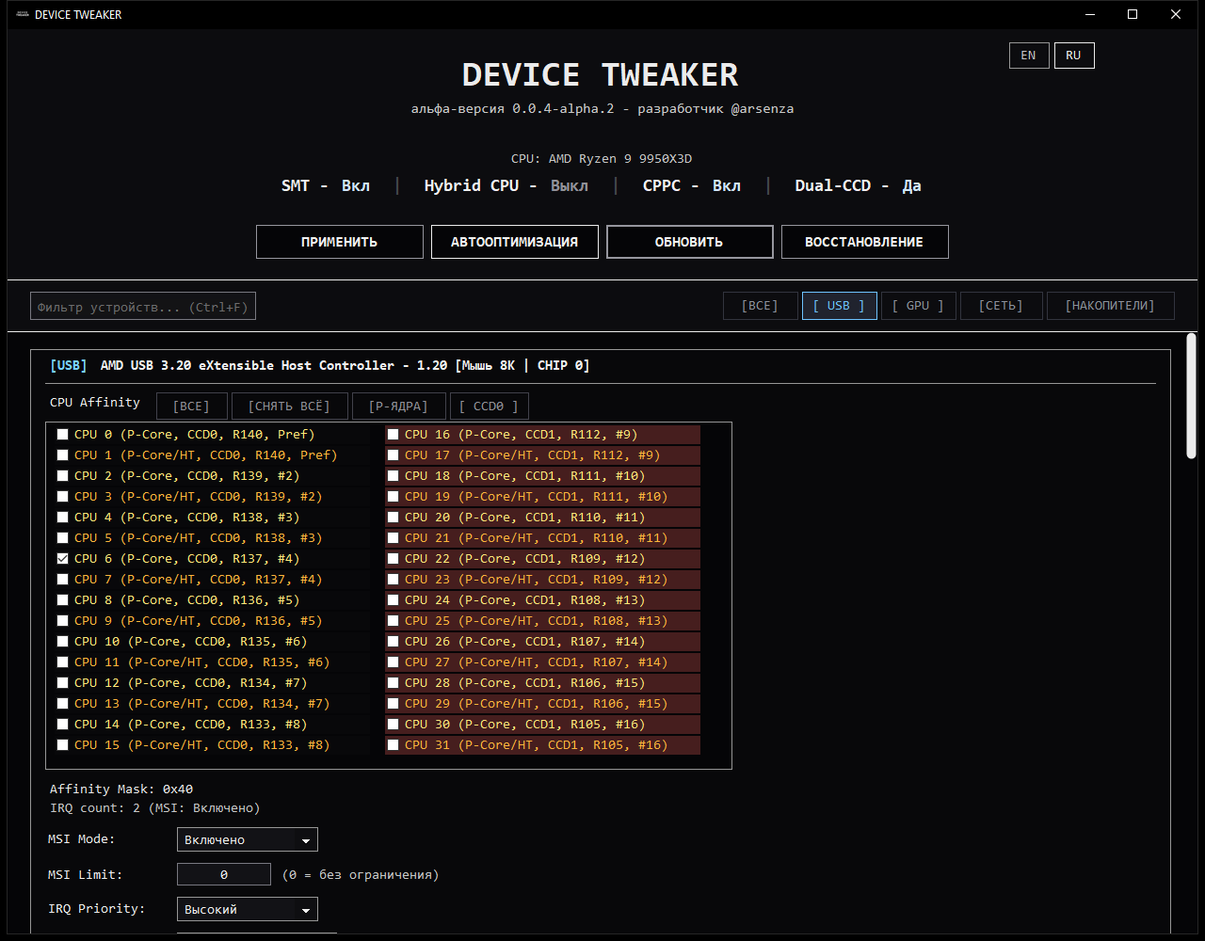
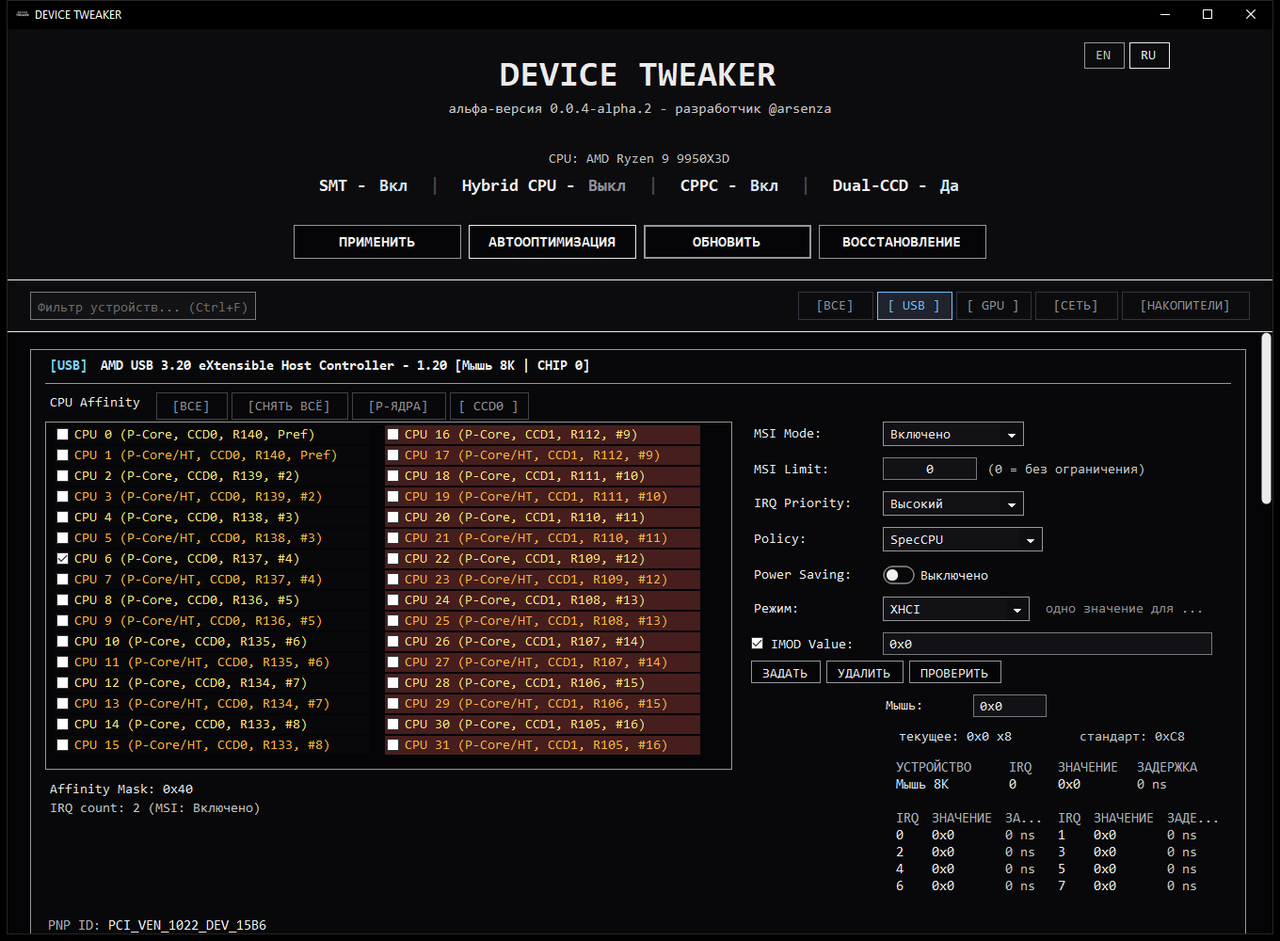
docs: add USB IMOD and NIC ITR examples and fix screenshot clipping

diff --git a/DEVICE TWEAKER/GUI/MainForm.Showcase.cs b/DEVICE TWEAKER/GUI/MainForm.Showcase.cs
@@ -33,6 +33,10 @@ public sealed partial class MainForm
         {
             SetupImodShowcase(isRu);
         }
+        else if (showcase.StartsWith("NicItr", StringComparison.OrdinalIgnoreCase))
+        {
+            SetupNicItrShowcase(isRu);
+        }
         else
         {
             return false;
@@ -46,6 +50,10 @@ public sealed partial class MainForm
         else if (showcase.StartsWith("Imod", StringComparison.OrdinalIgnoreCase))
         {
             SetCategoryFilter("USB");
+        }
+        else if (showcase.StartsWith("NicItr", StringComparison.OrdinalIgnoreCase))
+        {
+            SetCategoryFilter("NETWORK");
         }
 
         UpdateAllBlocksInitialState();
@@ -594,6 +602,94 @@ public sealed partial class MainForm
 
             RecalcAffinityMask(usbBlock);
             OnBlockSettingChanged(usbBlock);
+        }
+
+        UpdateAllBlocksInitialState();
+        UpdateApplyButtonDirtyCount();
+        UpdateCpuHeaderUi();
+    }
+
+    private void SetupNicItrShowcase(bool isRu)
+    {
+        TestCpuConfig config = new()
+        {
+            LogicalCount = 32,
+            SmtEnabled = true,
+            UseHyperThreadingLabel = false,
+            CpuName = "AMD Ryzen 9 9950X3D",
+            CcdMap = new Dictionary<int, int>(),
+            CcxMap = new Dictionary<int, int>()
+        };
+
+        for (int lp = 0; lp < 32; lp++)
+        {
+            config.CoreMap[lp] = lp / 2;
+            int ccd = lp < 16 ? 0 : 1;
+            config.CcdMap[lp] = ccd;
+            config.CcxMap[lp] = ccd;
+            config.CppcRatings[lp] = lp < 16 ? 140 - (lp / 2) : 112 - ((lp - 16) / 2);
+        }
+
+        ApplyTestCpuConfig(config);
+
+        _testDevices.Clear();
+
+        // Device 1: Intel Ethernet Controller I226-V
+        _testDevices.Add(CreateTestDevice(
+            DeviceKind.NET_NDIS,
+            "Intel Ethernet Controller I226-V",
+            @"PCI\VEN_8086&DEV_125C&SUBSYS_14620000\4&2BA2BF07&0&0018",
+            usbRoles: "", audioEndpoints: "", storageTag: "", wifi: false,
+            usbIsXhci: false, usbHasDevices: false, integratedGpu: false,
+            testIrqCount: 4, testMsiStatus: "Enabled", nicPowerSaving: "off"));
+
+        // Device 2: Realtek RTL8125 2.5GbE Gaming Controller
+        _testDevices.Add(CreateTestDevice(
+            DeviceKind.NET_NDIS,
+            "Realtek RTL8125 2.5GbE Gaming Ethernet Family Controller",
+            @"PCI\VEN_10EC&DEV_8125&SUBSYS_14620000\4&2BA2BF07&0&0022",
+            usbRoles: "", audioEndpoints: "", storageTag: "", wifi: false,
+            usbIsXhci: false, usbHasDevices: false, integratedGpu: false,
+            testIrqCount: 4, testMsiStatus: "Enabled", nicPowerSaving: "off"));
+
+        RefreshBlocks();
+
+        foreach (DeviceBlock netBlock in _blocks.Where(b => b.Kind == DeviceKind.NET_NDIS))
+        {
+            bool isIntel = netBlock.Device.InstanceId.Contains("8086", StringComparison.OrdinalIgnoreCase);
+            int targetLp = isIntel ? 12 : 14;
+
+            netBlock.SuppressCpuEvents++;
+            try
+            {
+                for (int i = 0; i < netBlock.CpuBoxes.Count; i++)
+                {
+                    netBlock.CpuBoxes[i].Checked = i == targetLp;
+                }
+            }
+            finally { netBlock.SuppressCpuEvents--; }
+
+            netBlock.MsiCombo.SelectedItem = "Enabled";
+            netBlock.LimitBox.Text = "0";
+            netBlock.PrioCombo.SelectedItem = "High";
+            netBlock.PolicyCombo.SelectedItem = "SpecCPU";
+            if (netBlock.RssQueueBox is not null)
+            {
+                netBlock.RssQueueBox.Value = 4;
+            }
+
+            if (isIntel)
+            {
+                EnsureTestDeviceState(netBlock.Device).NicItrValue = "0, 0, 0, 0";
+            }
+            else
+            {
+                EnsureTestDeviceState(netBlock.Device).NicItrValue = "0x0";
+            }
+
+            RefreshNicItrBlock(netBlock);
+            RecalcAffinityMask(netBlock);
+            OnBlockSettingChanged(netBlock);
         }
 
         UpdateAllBlocksInitialState();

diff --git a/DEVICE TWEAKER/GUI/MainForm.Blocks.cs b/DEVICE TWEAKER/GUI/MainForm.Blocks.cs
@@ -319,11 +319,11 @@ public sealed partial class MainForm
         int cpuPanelTop = cpuLabel.Bottom + UiScale(6);
         int cpuPanelHeight = UiScale(150);
         bool hasImod = ShouldShowImod(device);
-        int desiredSettingsSideWidth = hasImod ? UiScale(560) : UiScale(360);
+        int desiredSettingsSideWidth = hasImod ? UiScale(420) : UiScale(360);
         int settingsMinimumWidth = Math.Min(UiScale(360), Math.Max(UiScale(280), grp.Width - UiScale(48)));
         int settingsSideMinimumWidth = desiredSettingsSideWidth;
         int cpuPanelMinimumWidth = UiScale(320);
-        int settingsSideGap = UiScale(40);
+        int settingsSideGap = UiScale(20);
         int cpuPanelFullMaximumWidth = Math.Max(
             cpuPanelMinimumWidth,
             grp.Width - UiScale(16) - UiScale(24));
@@ -1853,7 +1853,7 @@ public sealed partial class MainForm
             settingsContentBottom = Math.Max(settingsContentBottom, child.Bottom);
         }
 
-        desiredSettingsSideWidth = showImod ? UiScale(540) : UiScale(360);
+        desiredSettingsSideWidth = showImod ? UiScale(420) : UiScale(360);
         UpdateResponsivePlacement();
 
         int settingsMinWidth = Math.Min(UiScale(360), availableSettingsWidth);
@@ -1960,7 +1960,7 @@ public sealed partial class MainForm
                 return bottom;
             }
 
-            desiredSettingsSideWidth = showImod ? UiScale(540) : UiScale(360);
+            desiredSettingsSideWidth = showImod ? UiScale(420) : UiScale(360);
             UpdateResponsivePlacement();
             LayoutNicItrRow();
             LayoutImodRow();

diff --git a/DEVICE TWEAKER/GUI/MainForm.Localization.cs b/DEVICE TWEAKER/GUI/MainForm.Localization.cs
@@ -139,7 +139,19 @@ public sealed partial class MainForm
 
     private void InitializeLocalization()
     {
-        UiLanguage.Initialize();
+        string? envLang = Environment.GetEnvironmentVariable("DEVICE_TWEAKER_LANGUAGE");
+        if (string.Equals(envLang, "EN", StringComparison.OrdinalIgnoreCase))
+        {
+            UiLanguage.Set(UiLanguageCode.English, persist: false);
+        }
+        else if (string.Equals(envLang, "RU", StringComparison.OrdinalIgnoreCase))
+        {
+            UiLanguage.Set(UiLanguageCode.Russian, persist: false);
+        }
+        else
+        {
+            UiLanguage.Initialize();
+        }
         UiLanguage.Changed += HandleUiLanguageChanged;
         LocalizeControlTree(this);
         UpdateLanguageSelectorStyle();

diff --git a/DEVICE TWEAKER/GUI/MainForm.TestAdmin.cs b/DEVICE TWEAKER/GUI/MainForm.TestAdmin.cs
@@ -5261,6 +5261,11 @@ public sealed partial class MainForm
 
                         _initialDeviceViewportHeightAdjusted = false;
                         RefreshBlocks();
+                        string? envFilter = Environment.GetEnvironmentVariable("DEVICE_TWEAKER_CATEGORY_FILTER");
+                        if (!string.IsNullOrWhiteSpace(envFilter))
+                        {
+                            SetCategoryFilter(envFilter);
+                        }
                         NotifySandboxModeChanged("qa-sandbox");
                         WriteLog(
                             $"TEST.QA.SANDBOX: ready testDevices={_testDevices.Count} only={_testDevicesOnly} dryRun={_testAutoDryRun}");

diff --git a/DEVICE TWEAKER/GUI/MainForm.Gui.cs b/DEVICE TWEAKER/GUI/MainForm.Gui.cs
@@ -1305,7 +1305,12 @@ public sealed partial class MainForm
             }
         }
 
-        if (!availableCategories.Contains(_activeCategoryFilter, StringComparer.OrdinalIgnoreCase))
+        string? envFilter = Environment.GetEnvironmentVariable("DEVICE_TWEAKER_CATEGORY_FILTER");
+        if (!string.IsNullOrWhiteSpace(envFilter) && availableCategories.Contains(envFilter, StringComparer.OrdinalIgnoreCase))
+        {
+            _activeCategoryFilter = envFilter.ToUpperInvariant();
+        }
+        else if (!availableCategories.Contains(_activeCategoryFilter, StringComparer.OrdinalIgnoreCase))
         {
             _activeCategoryFilter = "ALL";
         }

diff --git a/README.md b/README.md
@@ -76,13 +76,42 @@ DEVICE TWEAKER переводит периферийные PCIe-устройст
 - **Драйвер Ring 0 (`DTIMOD.sys`):** выполняет прямое чтение и запись физических регистров MMIO через `MmMapIoSpace`.
 - **Разделение контроллеров CHIP 0 / CHIP 1:** модуль `UsbChipPath` анализирует топологию шины PCIe и отличает прямой процессорный контроллер (CHIP 0 / Direct CPU Lanes) от чипсетных хабов (CHIP 1 / PCH). Это позволяет отключить задержку (`0x0`) для мыши на процессорном порту, сохранив стабильный буфер 1 мс (`0xFA0`) для звуковых контроллеров чипсета во избежание щелчков звука.
 
+<p align="center">
+  <img src="./DEVICE%20TWEAKER/assets/screenshots/showcase_amd_imod_table_ru.png" alt="Таблица аппаратной модерации таймеров USB xHCI IMOD" width="100%">
+</p>
+
+#### Практические примеры конфигурации USB IMOD
+
+| Сценарий применения | Контроллер / Топология | Значение IMOD | Задержка | Приоритет IRQ | Назначение Affinity |
+| :--- | :--- | :--- | :--- | :--- | :--- |
+| **Игровая мышь (1000 - 8000 Гц)** | Процессорный CHIP 0 (Direct CPU) | `0x0` | 0 нс (Zero latency) | Высокий (High) | Выделенное физическое ядро (P-Core) |
+| **Игровая клавиатура (1000 - 8000 Гц)** | Чипсетный CHIP 1 (PCH Hub) | `0x0` | 0 нс (Zero latency) | Высокий (High) | Смежное изолированное ядро |
+| **USB ЦАП / Внешняя звуковая карта** | Чипсетный CHIP 1 (PCH Hub) | `0xFA0` | 1000 мкс (1.0 мс) | Обычный (Normal) | Вторичное ядро (защита от опустошения буфера) |
+| **Стандартная периферия (флешки, вебкамера)** | Любой доступный порт | `0xC8` (По умолчанию) | 50 мкс | Обычный (Normal) | Общий пул ядер планировщика |
+
+В интерактивной таблице DEVICE TWEAKER отображаются физические интерраптеры (IRQ 0..7), текущее активное значение задержки в наносекундах и привязанные конечные устройства. Кнопка **`[ЗАДАТЬ]`** загружает драйвер Ring 0 и записывает регистры MMIO, **`[ПРОВЕРИТЬ]`** подтверждает физическое состояние регистров контроллера, а **`[УДАЛИТЬ]`** возвращает заводское значение драйвера Windows (`0xC8` / 50 мкс).
+
 ### Сетевой стек: регистры NIC ITR и масштабирование очередей RSS
 
 - **Прямое программирование физических таймеров сетевых карт:** через драйвер `DTIMOD.sys` программа считывает и изменяет аппаратные регистры задержки прерываний:
   - Intel PCIe (EITR / ITR): I225, I226, I210, I211, I350, I219, 82580, 82576 и Killer E3100 (смещения MMIO `0x1680` и `0x00C4` с шагом кванта 1-2 мкс).
   - Realtek PCIe (IntrMit / IntrMitV2): RTL8111, RTL8168, RTL8125, RTL8126 и Killer E2500/E2600 (регистры `0x00E2` и `0x0A00` с per-queue маской `0x7F7F7F7F`).
-- **Receive Side Scaling (RSS):** настройка параметров `*NumRssQueues` и `*RssBaseProcNumber` в ветке драйвера адаптера. Ограничение очередей до 2 и смещение базового ядра с CPU 0 предотвращает конкуренцию сетевых DPC-пакетов с конвейером ввода мыши и игровым процессом.
+- **Receive Side Scaling (RSS):** настройка параметров `*NumRssQueues` и `*RssBaseProcNumber` в ветке драйвера адаптера. Ограничение очередей до 2-4 и смещение базового ядра с CPU 0 предотвращает конкуренцию сетевых DPC-пакетов с конвейером ввода мыши и игровым процессом.
 - **Управление электропитанием шины:** отключение энергосберегающих состояний D3 (`PnPCapabilities` бит `0x08`, синхронизированный через WMI `MSPower_DeviceEnable`) и отключение выборочного энергосбережения USB (Selective Suspend).
+
+<p align="center">
+  <img src="./DEVICE%20TWEAKER/assets/screenshots/showcase_nic_itr_ru.png" alt="Управление регистрами NIC ITR и распределением очередей RSS" width="100%">
+</p>
+
+#### Практические примеры конфигурации сетевых адаптеров
+
+| Адаптер | Режим ITR | Значение регистра | Число очередей RSS | Распределение ядер (Affinity) | Результат |
+| :--- | :--- | :--- | :--- | :--- | :--- |
+| **Intel Ethernet I225-V / I226-V (2.5G)** | Отключено (Zero Delay) | `0x0, 0x0, 0x0, 0x0` | 4 очереди (`*NumRssQueues=4`) | Выделенный блок ядер (CPU 12-15) | Мгновенный отклик сетевых пакетов без джиттера, ноль задержки в буфере |
+| **Realtek RTL8125 / RTL8126 (2.5G/5G)** | Отключено (Zero Delay) | `0x0` (`0x00000000`) | 2-4 очереди | Вторичные ядра CCD0 / P-ядра | Полное исключение модерации прерываний на чипах Dragon/Gaming |
+| **Intel I219-V / I211-AT (1G)** | Фиксированная задержка | `0x3E8` (1000 мкс) | 2 очереди | Вторичный чиплет CCD1 / E-ядра | Баланс между минимальным сетевым оверхедом CPU и плавной передачей потока |
+
+DEVICE TWEAKER одновременно настраивает реестровые флаги драйвера NDIS (`*ReceiveBuffers`, `*InterruptModeration`, `*RSS`) и физические регистры аппаратных очередей контроллера через драйвер Ring 0, выводя состояние очередей (Other=Off, IRQ0=Off, IRQ1=Off...) в статусную строку карточки устройства.
 
 ### Системная изоляция ядер (ReservedCpuSets)
 

diff --git a/DEVICE TWEAKER/README.md b/DEVICE TWEAKER/README.md
@@ -76,13 +76,42 @@ DEVICE TWEAKER переводит периферийные PCIe-устройст
 - **Драйвер Ring 0 (`DTIMOD.sys`):** выполняет прямое чтение и запись физических регистров MMIO через `MmMapIoSpace`.
 - **Разделение контроллеров CHIP 0 / CHIP 1:** модуль `UsbChipPath` анализирует топологию шины PCIe и отличает прямой процессорный контроллер (CHIP 0 / Direct CPU Lanes) от чипсетных хабов (CHIP 1 / PCH). Это позволяет отключить задержку (`0x0`) для мыши на процессорном порту, сохранив стабильный буфер 1 мс (`0xFA0`) для звуковых контроллеров чипсета во избежание щелчков звука.
 
+<p align="center">
+  <img src="./assets/screenshots/showcase_amd_imod_table_ru.png" alt="Таблица аппаратной модерации таймеров USB xHCI IMOD" width="100%">
+</p>
+
+#### Практические примеры конфигурации USB IMOD
+
+| Сценарий применения | Контроллер / Топология | Значение IMOD | Задержка | Приоритет IRQ | Назначение Affinity |
+| :--- | :--- | :--- | :--- | :--- | :--- |
+| **Игровая мышь (1000 - 8000 Гц)** | Процессорный CHIP 0 (Direct CPU) | `0x0` | 0 нс (Zero latency) | Высокий (High) | Выделенное физическое ядро (P-Core) |
+| **Игровая клавиатура (1000 - 8000 Гц)** | Чипсетный CHIP 1 (PCH Hub) | `0x0` | 0 нс (Zero latency) | Высокий (High) | Смежное изолированное ядро |
+| **USB ЦАП / Внешняя звуковая карта** | Чипсетный CHIP 1 (PCH Hub) | `0xFA0` | 1000 мкс (1.0 мс) | Обычный (Normal) | Вторичное ядро (защита от опустошения буфера) |
+| **Стандартная периферия (флешки, вебкамера)** | Любой доступный порт | `0xC8` (По умолчанию) | 50 мкс | Обычный (Normal) | Общий пул ядер планировщика |
+
+В интерактивной таблице DEVICE TWEAKER отображаются физические интерраптеры (IRQ 0..7), текущее активное значение задержки в наносекундах и привязанные конечные устройства. Кнопка **`[ЗАДАТЬ]`** загружает драйвер Ring 0 и записывает регистры MMIO, **`[ПРОВЕРИТЬ]`** подтверждает физическое состояние регистров контроллера, а **`[УДАЛИТЬ]`** возвращает заводское значение драйвера Windows (`0xC8` / 50 мкс).
+
 ### Сетевой стек: регистры NIC ITR и масштабирование очередей RSS
 
 - **Прямое программирование физических таймеров сетевых карт:** через драйвер `DTIMOD.sys` программа считывает и изменяет аппаратные регистры задержки прерываний:
   - Intel PCIe (EITR / ITR): I225, I226, I210, I211, I350, I219, 82580, 82576 и Killer E3100 (смещения MMIO `0x1680` и `0x00C4` с шагом кванта 1-2 мкс).
   - Realtek PCIe (IntrMit / IntrMitV2): RTL8111, RTL8168, RTL8125, RTL8126 и Killer E2500/E2600 (регистры `0x00E2` и `0x0A00` с per-queue маской `0x7F7F7F7F`).
-- **Receive Side Scaling (RSS):** настройка параметров `*NumRssQueues` и `*RssBaseProcNumber` в ветке драйвера адаптера. Ограничение очередей до 2 и смещение базового ядра с CPU 0 предотвращает конкуренцию сетевых DPC-пакетов с конвейером ввода мыши и игровым процессом.
+- **Receive Side Scaling (RSS):** настройка параметров `*NumRssQueues` и `*RssBaseProcNumber` в ветке драйвера адаптера. Ограничение очередей до 2-4 и смещение базового ядра с CPU 0 предотвращает конкуренцию сетевых DPC-пакетов с конвейером ввода мыши и игровым процессом.
 - **Управление электропитанием шины:** отключение энергосберегающих состояний D3 (`PnPCapabilities` бит `0x08`, синхронизированный через WMI `MSPower_DeviceEnable`) и отключение выборочного энергосбережения USB (Selective Suspend).
+
+<p align="center">
+  <img src="./assets/screenshots/showcase_nic_itr_ru.png" alt="Управление регистрами NIC ITR и распределением очередей RSS" width="100%">
+</p>
+
+#### Практические примеры конфигурации сетевых адаптеров
+
+| Адаптер | Режим ITR | Значение регистра | Число очередей RSS | Распределение ядер (Affinity) | Результат |
+| :--- | :--- | :--- | :--- | :--- | :--- |
+| **Intel Ethernet I225-V / I226-V (2.5G)** | Отключено (Zero Delay) | `0x0, 0x0, 0x0, 0x0` | 4 очереди (`*NumRssQueues=4`) | Выделенный блок ядер (CPU 12-15) | Мгновенный отклик сетевых пакетов без джиттера, ноль задержки в буфере |
+| **Realtek RTL8125 / RTL8126 (2.5G/5G)** | Отключено (Zero Delay) | `0x0` (`0x00000000`) | 2-4 очереди | Вторичные ядра CCD0 / P-ядра | Полное исключение модерации прерываний на чипах Dragon/Gaming |
+| **Intel I219-V / I211-AT (1G)** | Фиксированная задержка | `0x3E8` (1000 мкс) | 2 очереди | Вторичный чиплет CCD1 / E-ядра | Баланс между минимальным сетевым оверхедом CPU и плавной передачей потока |
+
+DEVICE TWEAKER одновременно настраивает реестровые флаги драйвера NDIS (`*ReceiveBuffers`, `*InterruptModeration`, `*RSS`) и физические регистры аппаратных очередей контроллера через драйвер Ring 0, выводя состояние очередей (Other=Off, IRQ0=Off, IRQ1=Off...) в статусную строку карточки устройства.
 
 ### Системная изоляция ядер (ReservedCpuSets)
 

diff --git a/README.en.md b/README.en.md
@@ -76,13 +76,42 @@ Per Intel xHCI Specification Revision 1.2 (§5.5.2), each hardware interrupter i
 - **Ring 0 Driver (`DTIMOD.sys`):** provides direct physical MMIO register access via `MmMapIoSpace`.
 - **Controller Partitioning (CHIP 0 / CHIP 1):** the `UsbChipPath` engine analyzes PCIe bus topology to distinguish direct CPU-attached lanes (CHIP 0) from chipset hubs (CHIP 1 / PCH). This allows applying zero delay (`0x0`) to mouse input on direct CPU ports while maintaining 1 ms (`0xFA0`) buffers for chipset audio devices to prevent audio dropouts.
 
+<p align="center">
+  <img src="./DEVICE%20TWEAKER/assets/screenshots/showcase_amd_imod_table_en.png" alt="Hardware USB xHCI IMOD Timer Moderation Table" width="100%">
+</p>
+
+#### Practical USB IMOD Configuration Examples
+
+| Use Case | Controller / Topology | IMOD Value | Moderation Delay | IRQ Priority | Target Affinity |
+| :--- | :--- | :--- | :--- | :--- | :--- |
+| **Gaming Mouse (1000 - 8000 Hz)** | CPU-direct CHIP 0 (Direct Lanes) | `0x0` | 0 ns (Zero latency) | High | Dedicated physical core (P-Core) |
+| **Gaming Keyboard (1000 - 8000 Hz)** | Chipset CHIP 1 (PCH Hub) | `0x0` | 0 ns (Zero latency) | High | Adjacent isolated core |
+| **USB DAC / Audio Interface** | Chipset CHIP 1 (PCH Hub) | `0xFA0` | 1000 µs (1.0 ms) | Normal | Secondary core (buffer underrun prevention) |
+| **Standard Peripherals (Flash, Cam)** | Any available hub | `0xC8` (Default) | 50 µs | Normal | General scheduler core pool |
+
+The interactive DEVICE TWEAKER table exposes hardware interrupters (IRQ 0..7), active delay intervals in nanoseconds, and enumerated USB client devices. The **`[SET]`** button invokes the Ring 0 driver to commit physical MMIO registers, **`[CHECK]`** verifies hardware registers in real time, and **`[REMOVE]`** restores Windows driver defaults (`0xC8` / 50 µs).
+
 ### Network Stack: NIC ITR Registers & RSS Queue Scaling
 
 - **Direct Physical Timer Programming:** using `DTIMOD.sys`, the utility reads and updates physical hardware registers:
   - Intel PCIe (EITR / ITR): I225, I226, I210, I211, I350, I219, 82580, 82576, and Killer E3100 (MMIO offsets `0x1680` and `0x00C4` with 1-2 µs granularity).
   - Realtek PCIe (IntrMit / IntrMitV2): RTL8111, RTL8168, RTL8125, RTL8126, and Killer E2500/E2600 (registers `0x00E2` and `0x0A00` with per-queue mask `0x7F7F7F7F`).
-- **Receive Side Scaling (RSS):** configures `*NumRssQueues` and `*RssBaseProcNumber` in the adapter driver key. Restricting queues to 2 and offsetting the base processing core from CPU 0 prevents network DPCs from preempting mouse input and graphics pipelines.
+- **Receive Side Scaling (RSS):** configures `*NumRssQueues` and `*RssBaseProcNumber` in the adapter driver key. Restricting queues to 2-4 and offsetting the base processing core from CPU 0 prevents network DPCs from preempting mouse input and graphics pipelines.
 - **PCIe Bus Power Management:** disables device D3 sleep states (`PnPCapabilities` bit `0x08`, synchronized via WMI `MSPower_DeviceEnable`) and disables USB Selective Suspend.
+
+<p align="center">
+  <img src="./DEVICE%20TWEAKER/assets/screenshots/showcase_nic_itr_en.png" alt="NIC ITR Registers and RSS Queue Allocation" width="100%">
+</p>
+
+#### Practical Network Adapter Configuration Examples
+
+| Network Adapter | ITR Mode | Register Value | RSS Queues | Core Allocation (Affinity) | Impact |
+| :--- | :--- | :--- | :--- | :--- | :--- |
+| **Intel Ethernet I225-V / I226-V (2.5G)** | Disabled (Zero Delay) | `0x0, 0x0, 0x0, 0x0` | 4 queues (`*NumRssQueues=4`) | Dedicated core block (CPU 12-15) | Instantaneous packet delivery with zero jitter and zero batch buffer delay |
+| **Realtek RTL8125 / RTL8126 (2.5G/5G)** | Disabled (Zero Delay) | `0x0` (`0x00000000`) | 2-4 queues | Secondary CCD0 / P-Cores | Complete elimination of moderation buffering on Dragon/Gaming NICs |
+| **Intel I219-V / I211-AT (1G)** | Fixed Delay | `0x3E8` (1000 µs) | 2 queues | Secondary CCD1 / E-Cores | Balanced throughput and reduced CPU overhead for background downloads |
+
+DEVICE TWEAKER simultaneously coordinates NDIS registry flags (`*ReceiveBuffers`, `*InterruptModeration`, `*RSS`) and physical hardware queue registers via the Ring 0 kernel driver, surfacing per-queue status (Other=Off, IRQ0=Off, IRQ1=Off...) directly inside the adapter device card.
 
 ### System Core Isolation (ReservedCpuSets)
 

diff --git a/DEVICE TWEAKER/README.en.md b/DEVICE TWEAKER/README.en.md
@@ -76,13 +76,42 @@ Per Intel xHCI Specification Revision 1.2 (§5.5.2), each hardware interrupter i
 - **Ring 0 Driver (`DTIMOD.sys`):** provides direct physical MMIO register access via `MmMapIoSpace`.
 - **Controller Partitioning (CHIP 0 / CHIP 1):** the `UsbChipPath` engine analyzes PCIe bus topology to distinguish direct CPU-attached lanes (CHIP 0) from chipset hubs (CHIP 1 / PCH). This allows applying zero delay (`0x0`) to mouse input on direct CPU ports while maintaining 1 ms (`0xFA0`) buffers for chipset audio devices to prevent audio dropouts.
 
+<p align="center">
+  <img src="./assets/screenshots/showcase_amd_imod_table_en.png" alt="Hardware USB xHCI IMOD Timer Moderation Table" width="100%">
+</p>
+
+#### Practical USB IMOD Configuration Examples
+
+| Use Case | Controller / Topology | IMOD Value | Moderation Delay | IRQ Priority | Target Affinity |
+| :--- | :--- | :--- | :--- | :--- | :--- |
+| **Gaming Mouse (1000 - 8000 Hz)** | CPU-direct CHIP 0 (Direct Lanes) | `0x0` | 0 ns (Zero latency) | High | Dedicated physical core (P-Core) |
+| **Gaming Keyboard (1000 - 8000 Hz)** | Chipset CHIP 1 (PCH Hub) | `0x0` | 0 ns (Zero latency) | High | Adjacent isolated core |
+| **USB DAC / Audio Interface** | Chipset CHIP 1 (PCH Hub) | `0xFA0` | 1000 µs (1.0 ms) | Normal | Secondary core (buffer underrun prevention) |
+| **Standard Peripherals (Flash, Cam)** | Any available hub | `0xC8` (Default) | 50 µs | Normal | General scheduler core pool |
+
+The interactive DEVICE TWEAKER table exposes hardware interrupters (IRQ 0..7), active delay intervals in nanoseconds, and enumerated USB client devices. The **`[SET]`** button invokes the Ring 0 driver to commit physical MMIO registers, **`[CHECK]`** verifies hardware registers in real time, and **`[REMOVE]`** restores Windows driver defaults (`0xC8` / 50 µs).
+
 ### Network Stack: NIC ITR Registers & RSS Queue Scaling
 
 - **Direct Physical Timer Programming:** using `DTIMOD.sys`, the utility reads and updates physical hardware registers:
   - Intel PCIe (EITR / ITR): I225, I226, I210, I211, I350, I219, 82580, 82576, and Killer E3100 (MMIO offsets `0x1680` and `0x00C4` with 1-2 µs granularity).
   - Realtek PCIe (IntrMit / IntrMitV2): RTL8111, RTL8168, RTL8125, RTL8126, and Killer E2500/E2600 (registers `0x00E2` and `0x0A00` with per-queue mask `0x7F7F7F7F`).
-- **Receive Side Scaling (RSS):** configures `*NumRssQueues` and `*RssBaseProcNumber` in the adapter driver key. Restricting queues to 2 and offsetting the base processing core from CPU 0 prevents network DPCs from preempting mouse input and graphics pipelines.
+- **Receive Side Scaling (RSS):** configures `*NumRssQueues` and `*RssBaseProcNumber` in the adapter driver key. Restricting queues to 2-4 and offsetting the base processing core from CPU 0 prevents network DPCs from preempting mouse input and graphics pipelines.
 - **PCIe Bus Power Management:** disables device D3 sleep states (`PnPCapabilities` bit `0x08`, synchronized via WMI `MSPower_DeviceEnable`) and disables USB Selective Suspend.
+
+<p align="center">
+  <img src="./assets/screenshots/showcase_nic_itr_en.png" alt="NIC ITR Registers and RSS Queue Allocation" width="100%">
+</p>
+
+#### Practical Network Adapter Configuration Examples
+
+| Network Adapter | ITR Mode | Register Value | RSS Queues | Core Allocation (Affinity) | Impact |
+| :--- | :--- | :--- | :--- | :--- | :--- |
+| **Intel Ethernet I225-V / I226-V (2.5G)** | Disabled (Zero Delay) | `0x0, 0x0, 0x0, 0x0` | 4 queues (`*NumRssQueues=4`) | Dedicated core block (CPU 12-15) | Instantaneous packet delivery with zero jitter and zero batch buffer delay |
+| **Realtek RTL8125 / RTL8126 (2.5G/5G)** | Disabled (Zero Delay) | `0x0` (`0x00000000`) | 2-4 queues | Secondary CCD0 / P-Cores | Complete elimination of moderation buffering on Dragon/Gaming NICs |
+| **Intel I219-V / I211-AT (1G)** | Fixed Delay | `0x3E8` (1000 µs) | 2 queues | Secondary CCD1 / E-Cores | Balanced throughput and reduced CPU overhead for background downloads |
+
+DEVICE TWEAKER simultaneously coordinates NDIS registry flags (`*ReceiveBuffers`, `*InterruptModeration`, `*RSS`) and physical hardware queue registers via the Ring 0 kernel driver, surfacing per-queue status (Other=Off, IRQ0=Off, IRQ1=Off...) directly inside the adapter device card.
 
 ### System Core Isolation (ReservedCpuSets)
 
